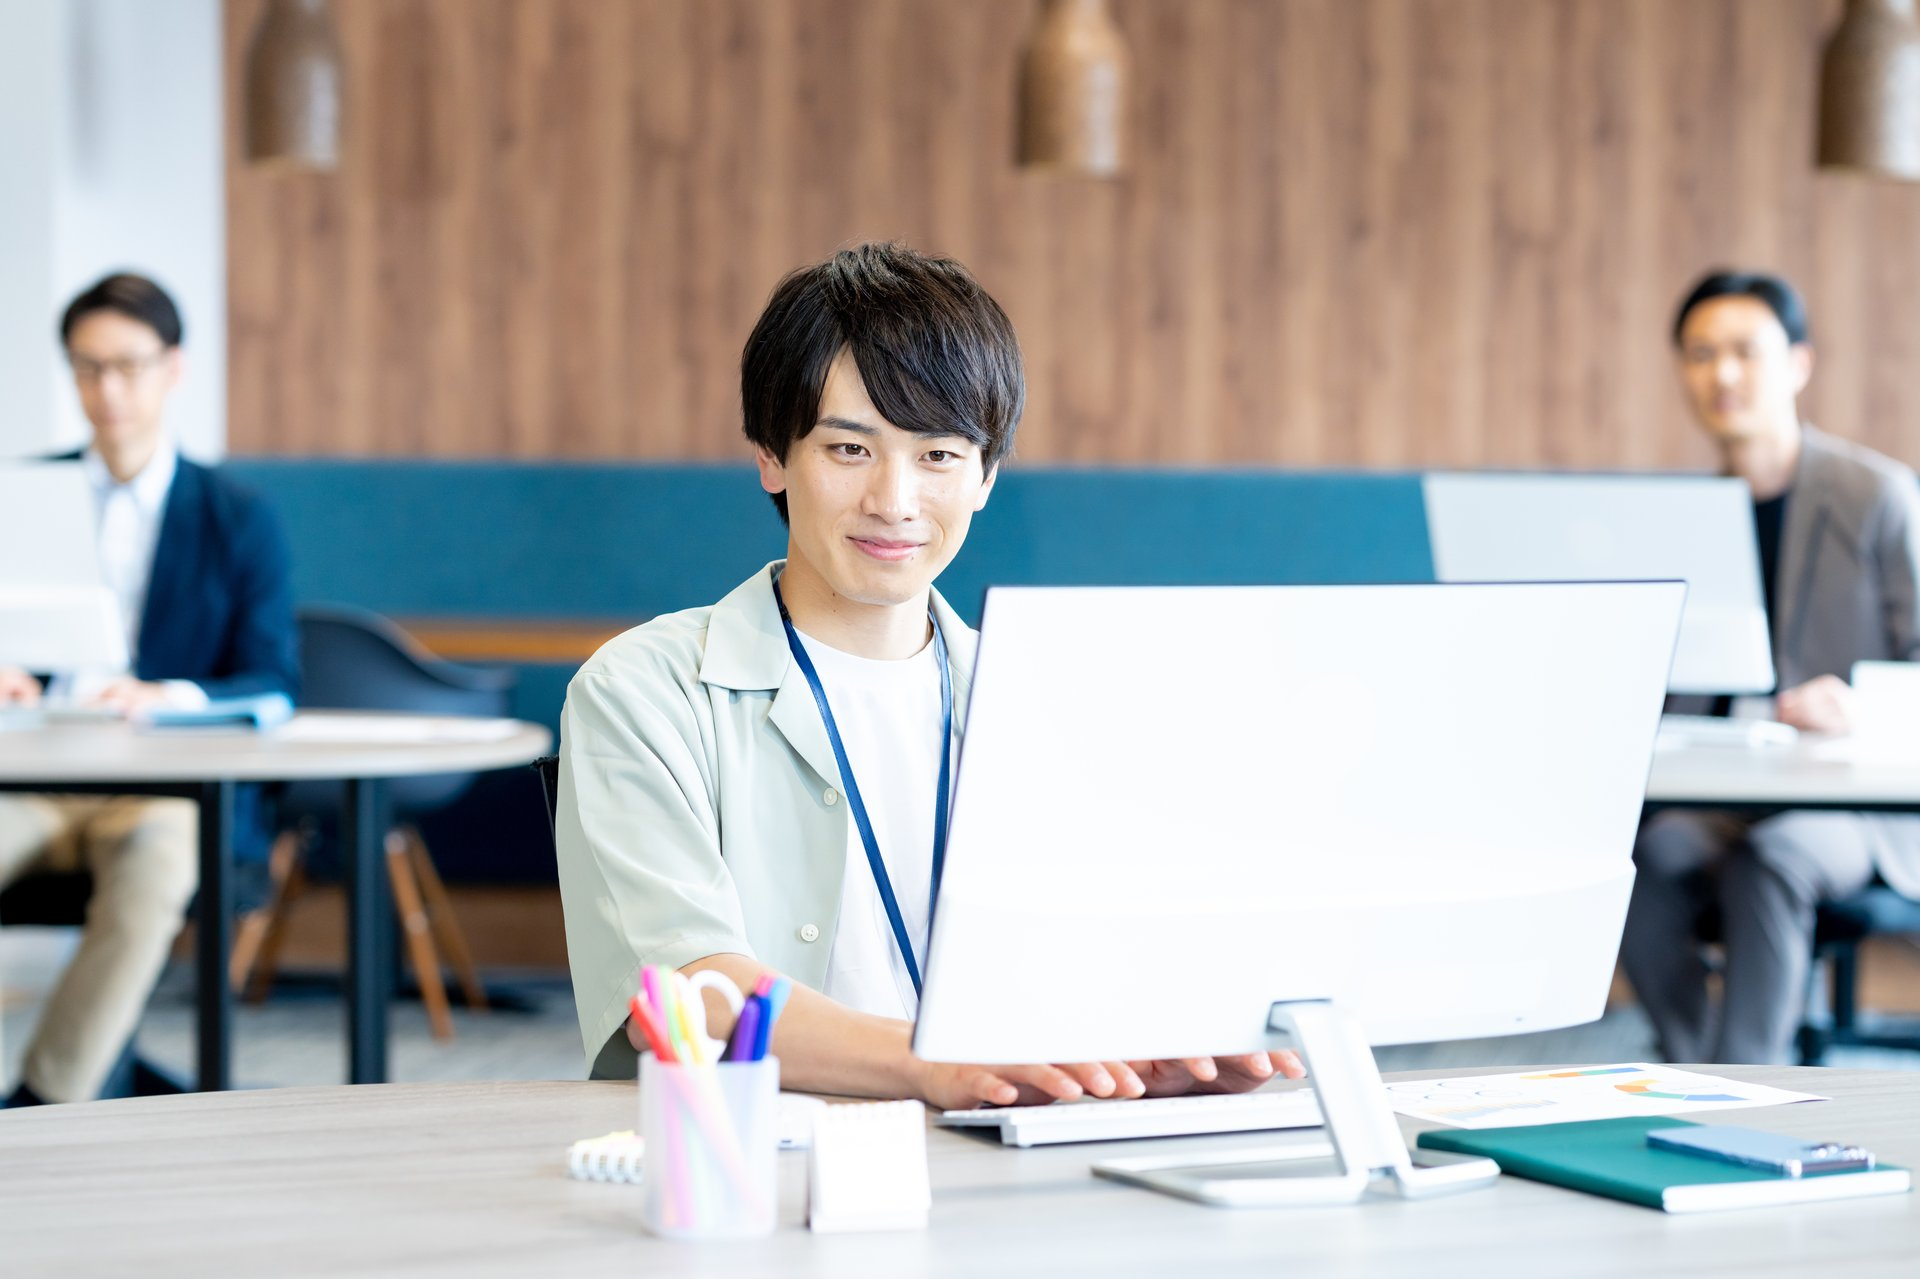
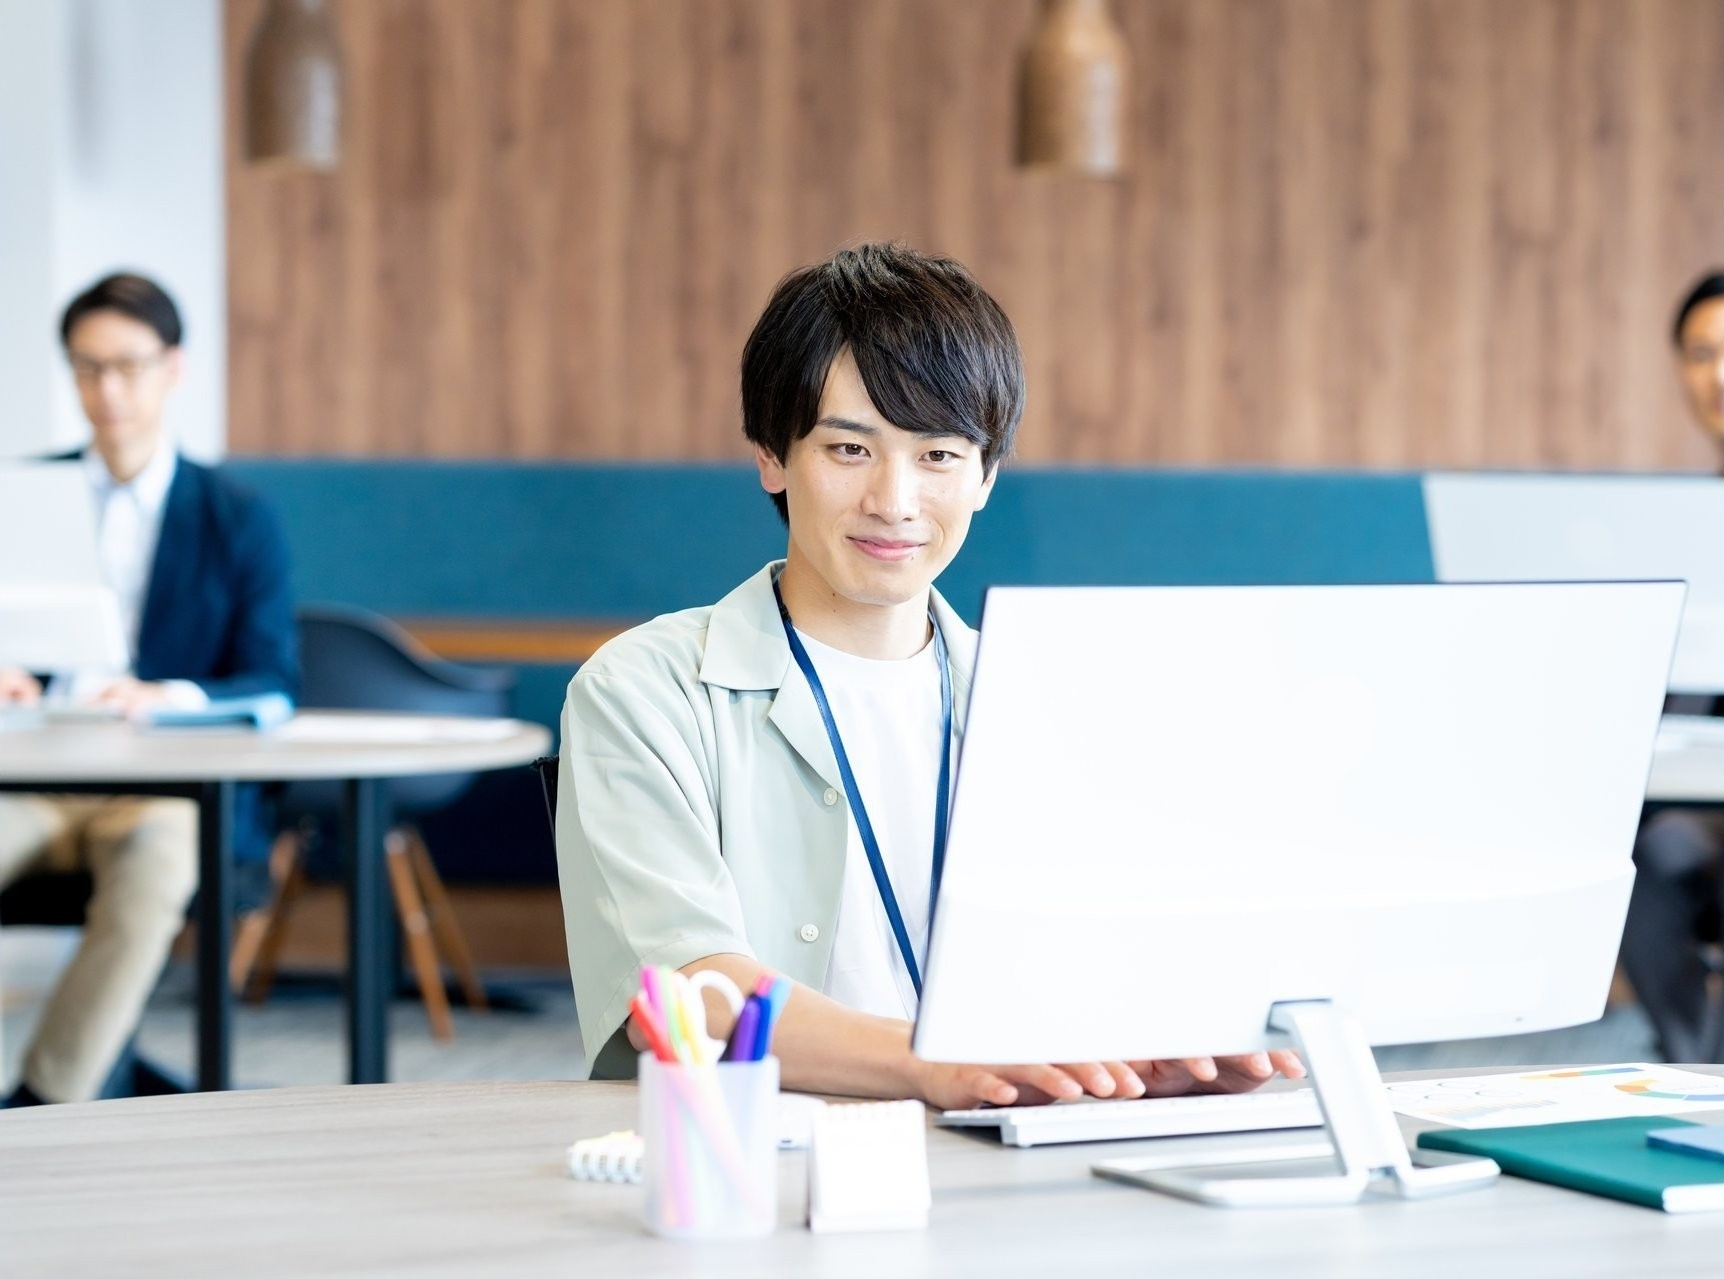
FV画像を右側切り取り版に更新

diff --git a/styles.css b/styles.css
@@ -433,7 +433,7 @@ img {
     align-items: center;
     position: relative;
     padding: 120px 60px 60px;
-    background: #ffffff;
+    background: #1e293b;
     overflow: hidden;
 }
 
@@ -537,14 +537,14 @@ img {
     align-items: center;
     gap: 6px;
     padding: 8px 18px;
-    background: rgba(255, 255, 255, 0.95);
+    background: rgba(255, 255, 255, 0.15);
     backdrop-filter: blur(10px);
-    border: 1px solid rgba(37, 99, 235, 0.12);
+    border: 1px solid rgba(255, 255, 255, 0.25);
     border-radius: 30px;
     font-size: 0.82rem;
-    color: var(--text-secondary);
+    color: #ffffff;
     font-weight: 600;
-    box-shadow: 0 2px 8px rgba(37, 99, 235, 0.06);
+    box-shadow: none;
 }
 
 .badge-icon {
@@ -566,7 +566,7 @@ img {
     line-height: 1.4;
     margin-bottom: 20px;
     letter-spacing: -0.02em;
-    color: var(--text-primary);
+    color: #ffffff;
 }
 
 .hero-title-line {
@@ -575,13 +575,13 @@ img {
 
 .hero-desc {
     font-size: 1.05rem;
-    color: #4b5563;
+    color: rgba(255, 255, 255, 0.85);
     margin-bottom: 28px;
     line-height: 1.9;
 }
 
 .hero-desc strong {
-    color: var(--accent-blue);
+    color: #93c5fd;
     font-size: 1.15rem;
     font-weight: 700;
 }
@@ -593,12 +593,12 @@ img {
     gap: 10px;
 }
 
-/* ヒーロー人物画像 — 右側背景同化スタイル */
+/* ヒーロー人物画像 — 全幅背景スタイル */
 .hero-visual {
     position: absolute;
     top: 0;
-    right: 0;
-    width: 45%;
+    left: 0;
+    width: 100%;
     height: 100%;
     z-index: 0;
     overflow: hidden;
@@ -618,15 +618,15 @@ img {
     display: block;
 }
 
-/* 画像の左側フェード：白背景への自然なグラデーション */
+/* 画像の左側オーバーレイ：テキスト可読性のためのダークグラデーション */
 .hero-visual-wrapper::before {
     content: '';
     position: absolute;
     top: 0;
     left: 0;
-    width: 45%;
+    width: 65%;
     height: 100%;
-    background: linear-gradient(to right, #ffffff 0%, rgba(255,255,255,0.85) 30%, rgba(255,255,255,0.4) 60%, transparent 100%);
+    background: linear-gradient(to right, rgba(15,23,42,0.72) 0%, rgba(15,23,42,0.45) 45%, rgba(15,23,42,0.1) 75%, transparent 100%);
     z-index: 2;
     pointer-events: none;
 }
@@ -639,7 +639,7 @@ img {
     left: 0;
     width: 100%;
     height: 30%;
-    background: linear-gradient(to top, #ffffff 0%, rgba(255,255,255,0.6) 40%, transparent 100%);
+    background: linear-gradient(to top, rgba(15,23,42,0.5) 0%, rgba(15,23,42,0.2) 40%, transparent 100%);
     z-index: 2;
     pointer-events: none;
 }
@@ -2834,19 +2834,20 @@ img {
     .hero-visual {
         position: absolute;
         top: 0;
-        right: 0;
-        bottom: auto;
+        left: 0;
         width: 100%;
-        height: 70%;
-        opacity: 0.25;
+        height: 100%;
+        opacity: 1;
     }
 
     .hero-visual-wrapper::before {
-        display: none;
+        width: 100%;
+        background: rgba(15,23,42,0.55);
     }
 
     .hero-visual-wrapper::after {
-        display: none;
+        display: block;
+        background: linear-gradient(to top, rgba(15,23,42,0.6) 0%, transparent 60%);
     }
 
     .hero-image {
@@ -2929,8 +2930,8 @@ img {
     }
 
     .hero-visual {
-        height: 65%;
-        opacity: 0.25;
+        height: 100%;
+        opacity: 1;
     }
 
     .hero-image {

diff --git a/index.html b/index.html
@@ -110,7 +110,7 @@
                     <div class="hero-visual-wrapper">
                         <picture>
                             <source srcset="images/hero-person.webp" type="image/webp">
-                            <img src="images/hero-person.jpg" alt="研修を受講する若きエンジニア" width="1920" height="1279" loading="eager">
+                            <img src="images/hero-person.jpg" alt="研修を受講する若きエンジニア" width="1724" height="1279" loading="eager">
                         </picture>
                         <div class="hero-visual-accent hero-visual-accent-1"></div>
                         <div class="hero-visual-accent hero-visual-accent-2"></div>
